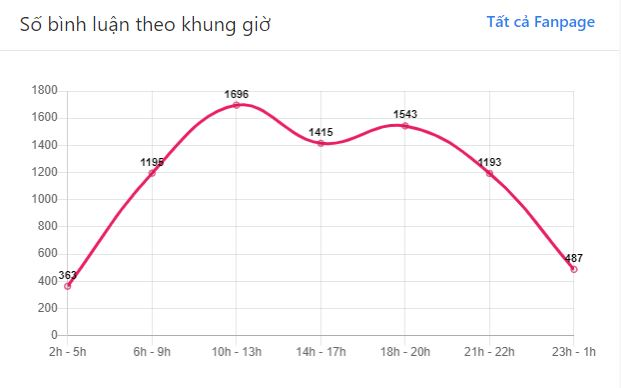
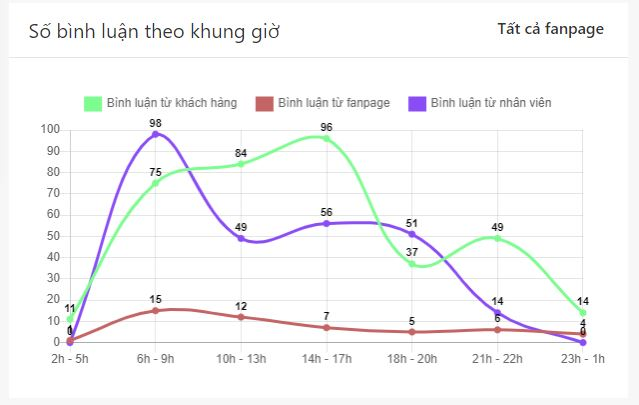
ducnm update

diff --git a/docs/README.md b/docs/README.md
@@ -38,21 +38,22 @@
 ![Biểu đồ số người dùng mới](./assets/BieuDoSoNguoiDungMoi.JPG)
 
 #### 7. Biểu đồ tổng số tin nhắn
-- Liệt kê số tin nhắn mỗi ngày trong thời gian thống kê
+- Liệt kê số tin nhắn mỗi ngày của **khách hàng**, **fanpage**, **nhân viên** trong thời gian thống kê
 - Mặc định ban đầu là tổng số tin nhắn của tất cả các fanpage trong project
-- Số liệu được tính tổng từ bảng **Thống kê chi tiết theo giờ**, cột **Số tin nhắn** 
+- Tổng các số liệu bằng với tổng số liệu trong cột **Số tin nhắn**, bảng **Thống kê chi tiết theo giờ** 
    
 ![Biểu đồ tổng số tin nhắn](./assets/BieuDoTongSoTinNhan.JPG)
 
 #### 8. Biểu đồ tổng số bình luận
-- Liệt kê số bình luận mỗi ngày trong thời gian thống kê
+- Liệt kê số bình luận mỗi ngày của **khách hàng**, **fanpage**, **nhân viên** trong thời gian thống kê
 - Mặc định ban đầu là tổng số bình luận của tất cả các fanpage trong project
-- Số liệu được tính tổng từ bảng **Thống kê chi tiết theo giờ**, cột **Số bình luận**  
+- Tổng các số liệu bằng với tổng số liệu trong cột **Số bình luận**, bảng **Thống kê chi tiết theo giờ**  
    
 ![Biểu đồ tổng số bình luận](./assets/BieuDoTongSoBinhLuan.JPG )
 
 #### 9. Biểu đồ số tin nhắn theo khung giờ
 - Liệt kê số tin nhắn theo các khoảng thời gian trong ngày
+- Biểu đồ bao gôm 3 đường: **Tin nhắn từ khách hàng**, **Tin nhắn từ fanpage**, **Tin nhắn từ nhân viên**
 - Biểu đồ được chia thành 5 khoảng thời gian:
     * 2h - 5h
     * 6h - 9h
@@ -66,6 +67,7 @@
 
 #### 10. Biểu đồ số bình luận theo khung giờ
 - Liệt kê số bình luận theo các khoảng thời gian trong ngày
+- Biểu đồ bao gôm 3 đường: **Bình luận từ khách hàng**, **Bình luận từ fanpage**, **Bình luận từ nhân viên**
 - Biểu đồ được chia thành 5 khoảng thời gian:
     * 2h - 5h
     * 6h - 9h
@@ -133,13 +135,13 @@
 
 #### 19. Bảng số tin nhắn theo nhân viên, thời gian phản hồi trung bình
 - Biểu diễn số tin nhắn theo từng nhân viên (chỉ tính khi nhắn tin phản hồi khách hàng qua Boxchat của Bizfly)
-- Nếu không có nhân viên nào đã từng nhắn tin, hiển thị *Chưa có dữ liệu nhắn tin cua nhân viên*
+- Nếu không có nhân viên nào đã từng nhắn tin, hiển thị *Chưa có dữ liệu nhắn tin của nhân viên*
    
 ![Số tin nhắn theo nhân viên](./assets/BieuDoSoTNTheoNhanVien.JPG )
 
 #### 20. Bảng số bình luận theo nhân viên, thời gian phản hồi trung bình
 - Biểu diễn số bình luận theo từng nhân viên (chỉ tính khi bình luận phản hồi khách hàng qua Boxchat của Bizfly)
-- Nếu không có nhân viên nào đã từng bình luận, hiển thị *Chưa có dữ liệu bình luận cua nhân viên*
+- Nếu không có nhân viên nào đã từng bình luận, hiển thị *Chưa có dữ liệu bình luận của nhân viên*
    
 ![Số bình luận theo nhân viên](./assets/BieuDoSoBLTheoNhanVien.JPG )
 
